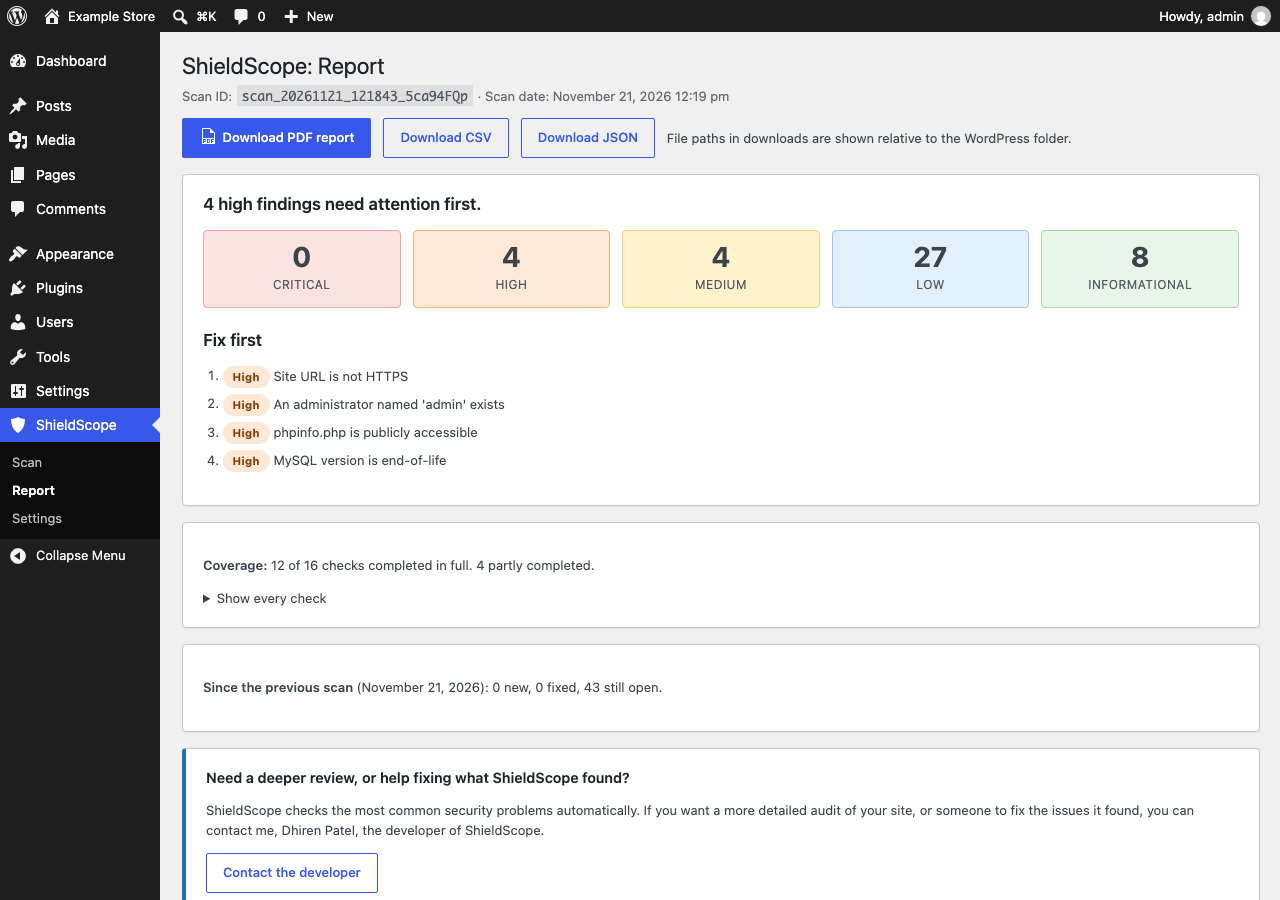
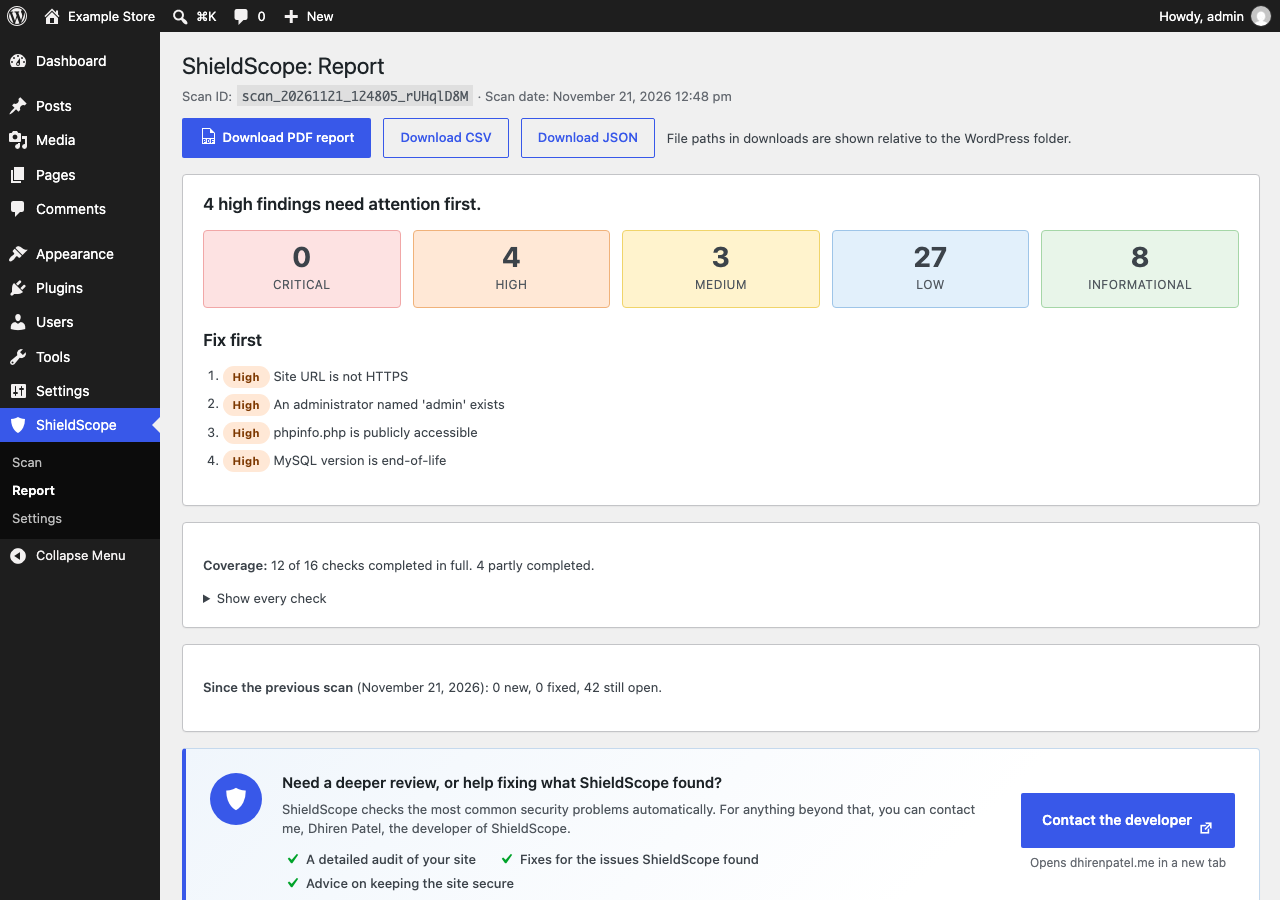
Help box: highlighted "Contact the developer" button and a clearer layout
- The button is a primary (accent) button, following the admin colour
  scheme, with an external-link icon and "Opens dhirenpatel.me in a new
  tab" under it.
- The box is a tinted panel with an accent stripe and a shield icon;
  heading and shorter text, then three points (a detailed audit, fixes
  for the issues ShieldScope found, advice on keeping the site secure).
  Icon, text and button sit side by side on desktop and stack on narrow
  screens (button full width).
- Still a plain link: no remote assets, nothing sent unless clicked.
- Screenshots 1, 2 and 4 retaken with the new box.

Suite: 446 passing.

diff --git a/admin/css/admin.css b/admin/css/admin.css
@@ -758,13 +758,108 @@ details.shieldscope-faq-item[open] > summary .shieldscope-faq-chevron {
 
 /* ── Developer help box (Scan, Report and Settings screens) ───────────────── */
 .shieldscope-help-box {
-	border-left: 4px solid #2271b1;
+	--shieldscope-accent: var( --wp-admin-theme-color, #2271b1 );
+	display: grid;
+	grid-template-columns: auto 1fr auto;
+	gap: 20px;
+	align-items: center;
+	padding: 24px;
+	background: linear-gradient( 135deg, #f0f6fc 0%, #fff 70% );
+	border: 1px solid #c5d9ed;
+	border-left: 4px solid var( --shieldscope-accent );
 }
 
-.shieldscope-help-box h2 {
-	font-size: 1.1em;
+.shieldscope-help-icon {
+	display: flex;
+	align-items: center;
+	justify-content: center;
+	width: 52px;
+	height: 52px;
+	border-radius: 50%;
+	background: var( --shieldscope-accent );
+	color: #fff;
+	align-self: start;
 }
 
-.shieldscope-help-box p:last-child {
-	margin-bottom: 0;
+.shieldscope-help-icon .dashicons {
+	width: 28px;
+	height: 28px;
+	font-size: 28px;
+}
+
+.shieldscope-help-body h2 {
+	margin: 0 0 6px;
+	font-size: 1.15em;
+	line-height: 1.4;
+}
+
+.shieldscope-help-body p {
+	margin: 0 0 10px;
+	color: #50575e;
+}
+
+.shieldscope-help-points {
+	display: flex;
+	flex-wrap: wrap;
+	gap: 4px 20px;
+	margin: 0;
+}
+
+.shieldscope-help-points li {
+	display: flex;
+	align-items: center;
+	gap: 4px;
+	margin: 0;
+	font-weight: 500;
+}
+
+.shieldscope-help-points .dashicons {
+	color: #00a32a;
+}
+
+.shieldscope-help-action {
+	display: flex;
+	flex-direction: column;
+	align-items: center;
+	gap: 6px;
+	text-align: center;
+}
+
+.shieldscope-help-box .shieldscope-help-button {
+	display: inline-flex;
+	align-items: center;
+	gap: 6px;
+	padding: 6px 20px;
+	font-size: 14px;
+	font-weight: 600;
+	min-height: 40px;
+	white-space: nowrap;
+}
+
+.shieldscope-help-button .dashicons {
+	width: 16px;
+	height: 16px;
+	font-size: 16px;
+}
+
+.shieldscope-help-note {
+	font-size: 12px;
+	color: #646970;
+}
+
+@media screen and ( max-width: 782px ) {
+	.shieldscope-help-box {
+		grid-template-columns: 1fr;
+		gap: 14px;
+		padding: 18px;
+	}
+
+	.shieldscope-help-action {
+		align-items: stretch;
+	}
+
+	.shieldscope-help-box .shieldscope-help-button {
+		justify-content: center;
+		white-space: normal;
+	}
 }

diff --git a/includes/class-shieldscope-admin.php b/includes/class-shieldscope-admin.php
@@ -122,14 +122,24 @@ class ShieldScope_Admin {
 	public static function render_help_box() {
 		?>
 		<div class="shieldscope-card shieldscope-help-box">
-			<h2><?php esc_html_e( 'Need a deeper review, or help fixing what ShieldScope found?', 'shieldscope-site-security-scanner' ); ?></h2>
-			<p><?php esc_html_e( 'ShieldScope checks the most common security problems automatically. If you want a more detailed audit of your site, or someone to fix the issues it found, you can contact me, Dhiren Patel, the developer of ShieldScope.', 'shieldscope-site-security-scanner' ); ?></p>
-			<p>
-				<a class="button" href="<?php echo esc_url( self::HELP_URL ); ?>" target="_blank" rel="noopener noreferrer">
+			<span class="shieldscope-help-icon" aria-hidden="true"><span class="dashicons dashicons-shield-alt"></span></span>
+			<div class="shieldscope-help-body">
+				<h2><?php esc_html_e( 'Need a deeper review, or help fixing what ShieldScope found?', 'shieldscope-site-security-scanner' ); ?></h2>
+				<p><?php esc_html_e( 'ShieldScope checks the most common security problems automatically. For anything beyond that, you can contact me, Dhiren Patel, the developer of ShieldScope.', 'shieldscope-site-security-scanner' ); ?></p>
+				<ul class="shieldscope-help-points">
+					<li><span class="dashicons dashicons-yes" aria-hidden="true"></span><?php esc_html_e( 'A detailed audit of your site', 'shieldscope-site-security-scanner' ); ?></li>
+					<li><span class="dashicons dashicons-yes" aria-hidden="true"></span><?php esc_html_e( 'Fixes for the issues ShieldScope found', 'shieldscope-site-security-scanner' ); ?></li>
+					<li><span class="dashicons dashicons-yes" aria-hidden="true"></span><?php esc_html_e( 'Advice on keeping the site secure', 'shieldscope-site-security-scanner' ); ?></li>
+				</ul>
+			</div>
+			<div class="shieldscope-help-action">
+				<a class="button button-primary shieldscope-help-button" href="<?php echo esc_url( self::HELP_URL ); ?>" target="_blank" rel="noopener noreferrer">
 					<?php esc_html_e( 'Contact the developer', 'shieldscope-site-security-scanner' ); ?>
+					<span class="dashicons dashicons-external" aria-hidden="true"></span>
 					<span class="screen-reader-text"><?php esc_html_e( '(opens in a new tab)', 'shieldscope-site-security-scanner' ); ?></span>
 				</a>
-			</p>
+				<span class="shieldscope-help-note"><?php esc_html_e( 'Opens dhirenpatel.me in a new tab', 'shieldscope-site-security-scanner' ); ?></span>
+			</div>
 		</div>
 		<?php
 	}
